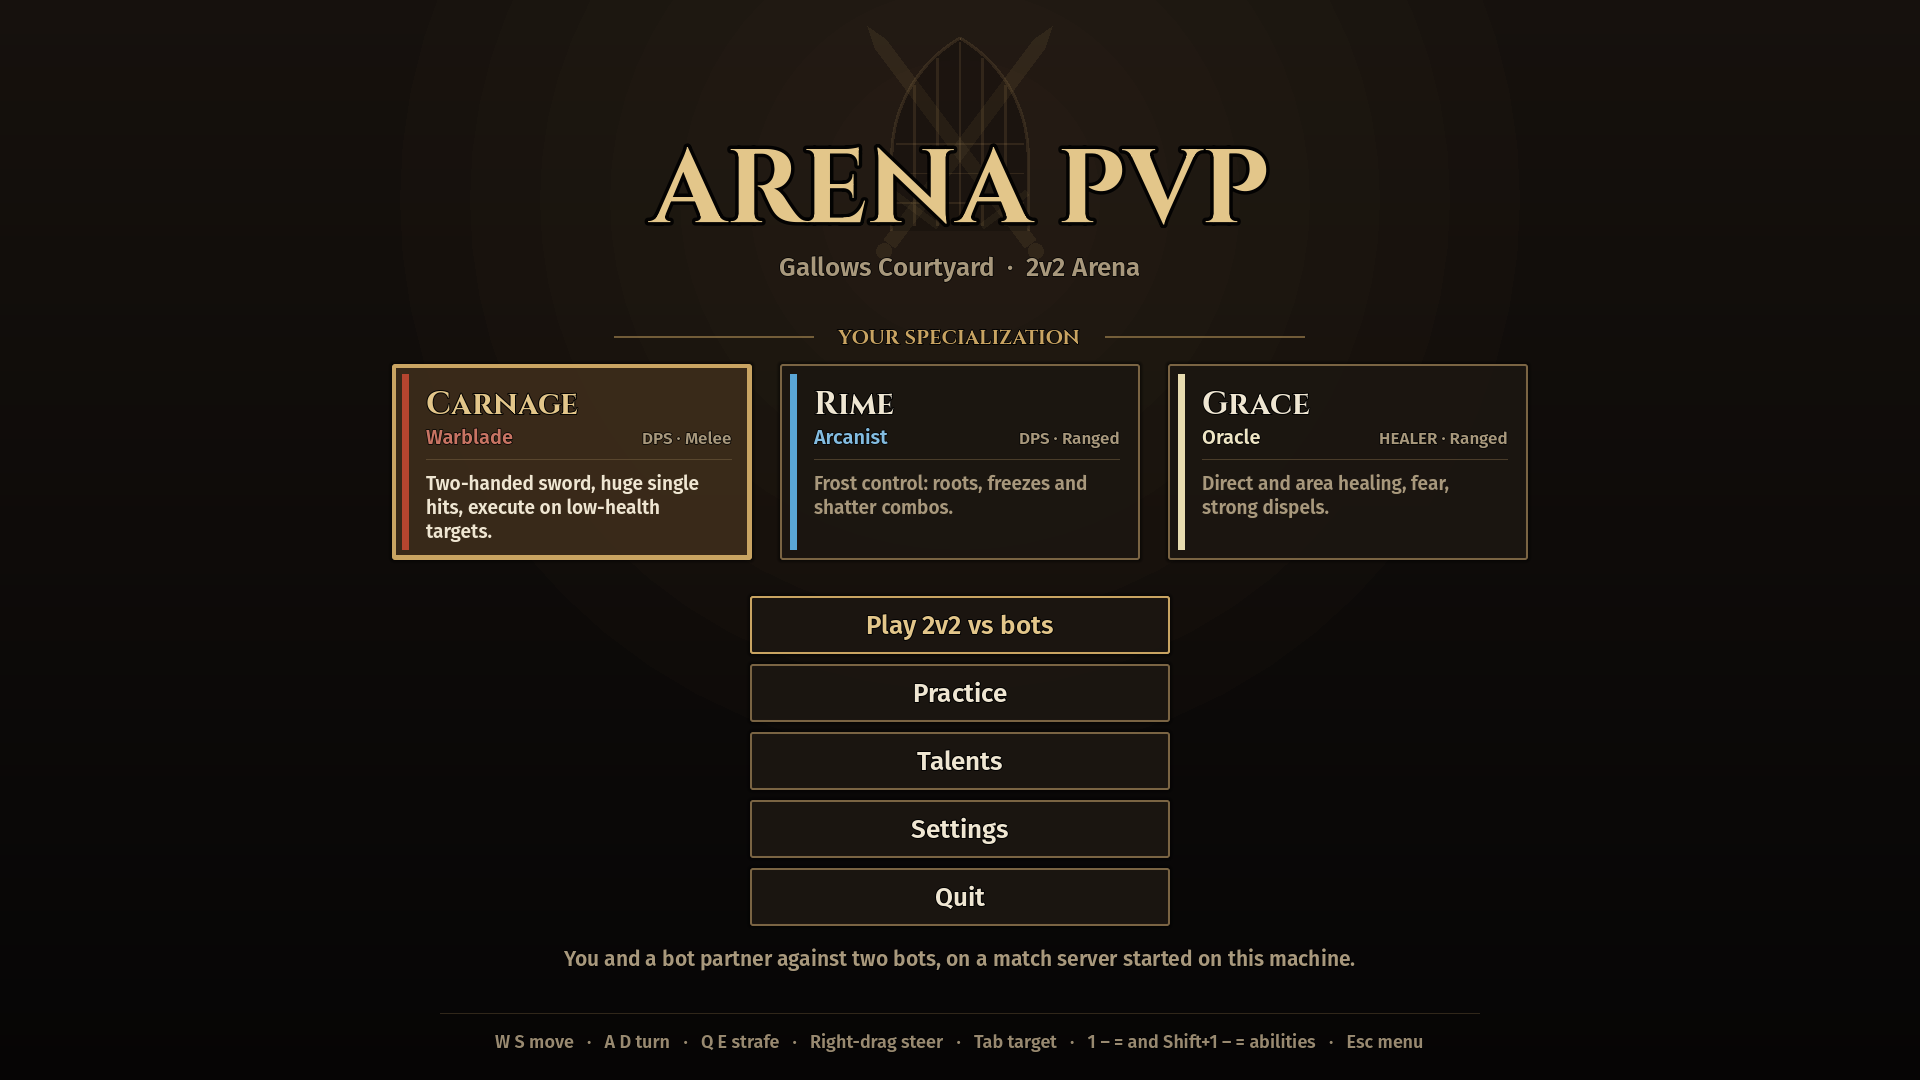
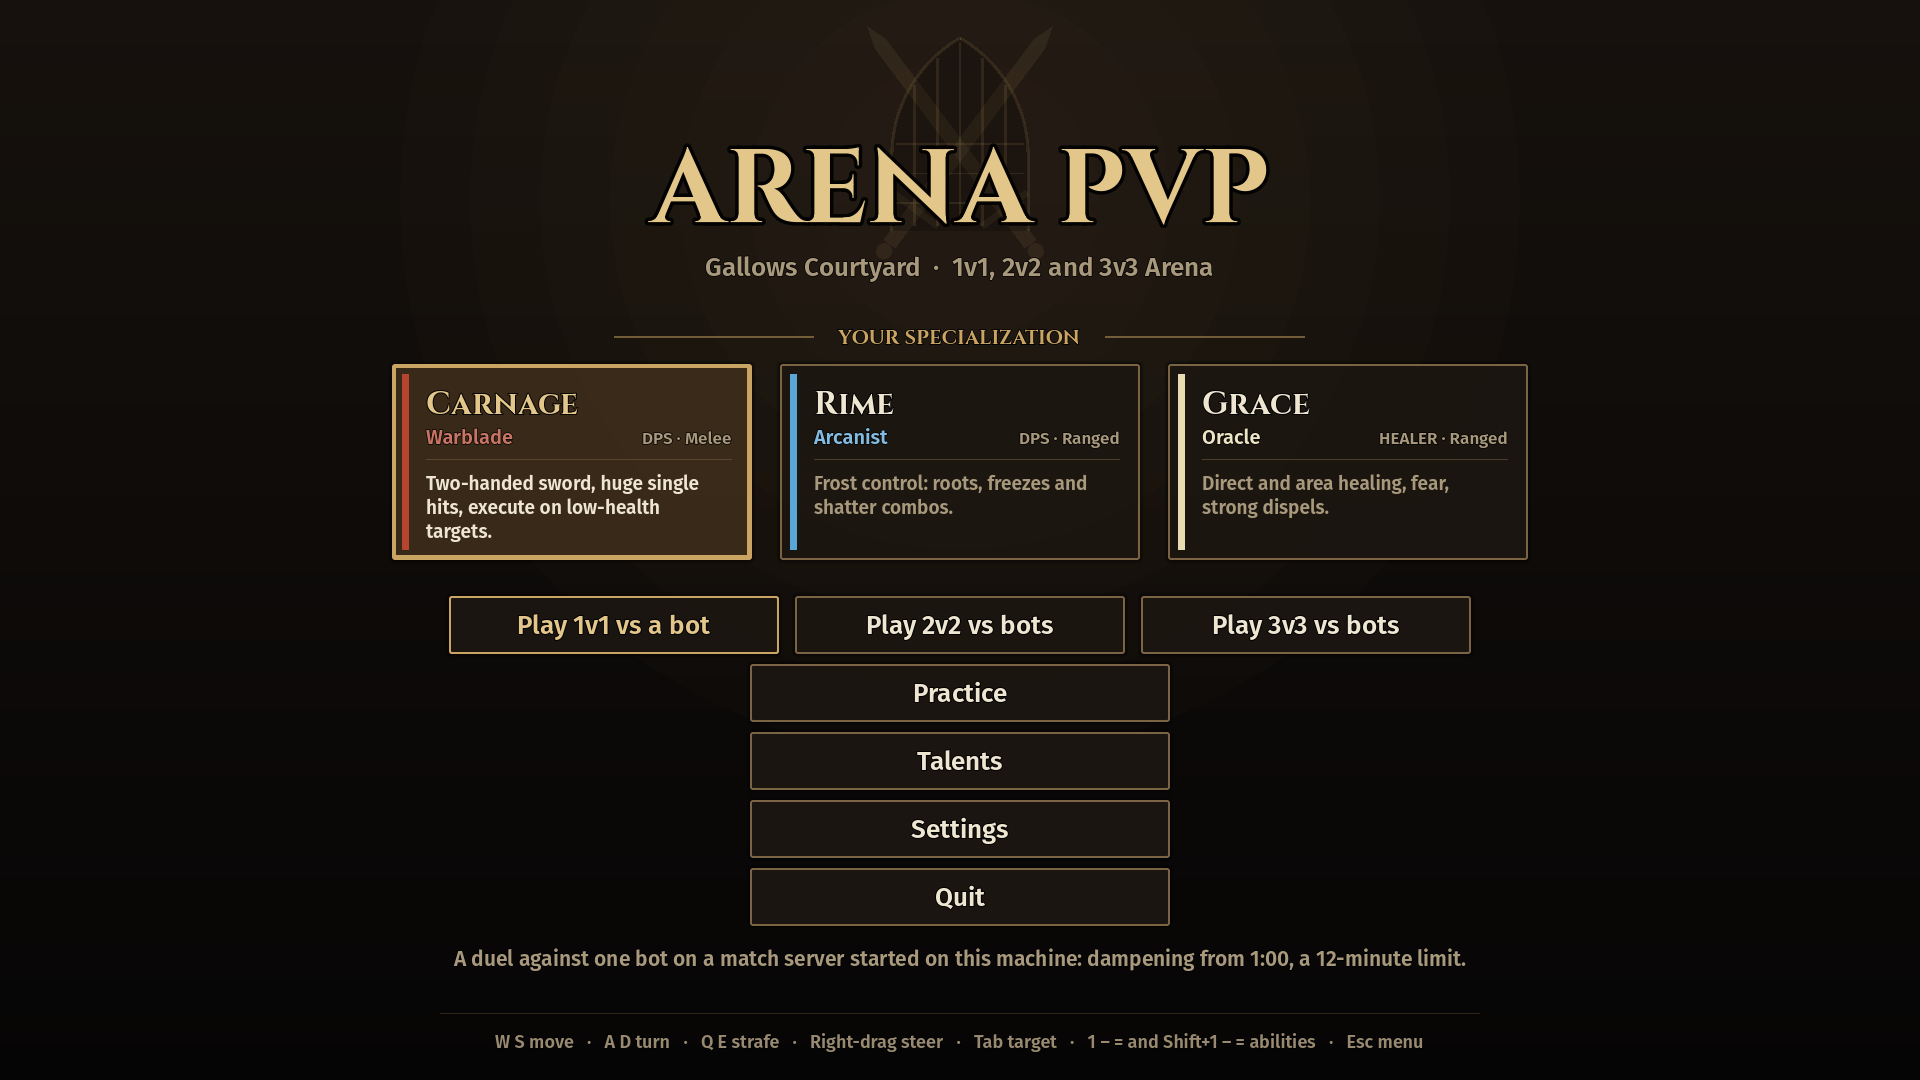
M2-08: 3v3 bracket through the whole flow; Play buttons share a row
Play 3v3 vs bots (two bot partners, three bots against); the three Play buttons sit in one row
(menu data 'row'). A real 3v3 ran end to end; the HUD shows three arena and two party frames.

Claude-Session: https://claude.ai/code/session_011LqwkqQDgdxsrYqZ4Kxj9L

diff --git a/tools/validate_data.py b/tools/validate_data.py
@@ -565,7 +565,7 @@ def _check_menus(report: Report, db: dict) -> None:
         picker = m["spec_picker"]
         if picker["default"] not in picker["specs"]:
             report.error(rel, f"spec_picker.default '{picker['default']}' is not in spec_picker.specs")
-        presets = {k: m[k] for k in ("play_bots", "play_1v1") if k in m}
+        presets = {k: m[k] for k in ("play_bots", "play_1v1", "play_3v3") if k in m}
         for key, pb in presets.items():
             if pb["map"] not in db["maps"]:
                 report.error(rel, f"{key}.map '{pb['map']}' not found in maps")

diff --git a/DECISIONS.md b/DECISIONS.md
@@ -4,6 +4,7 @@ Every choice not specified in docs/DESIGN.md, newest first. One line of reasonin
 
 | Date | Decision | Reason | Approved by |
 | --- | --- | --- | --- |
+| 2026-10-01 | The three Play buttons (1v1, 2v2, 3v3) share one row in the main menu (`row` in the menu data); Play 2v2 keeps the default focus; 3v3 bots are one of each slice spec on both sides | Seven stacked buttons would not fit above the hint line; with three specs, one of each is the only 3v3 without a mirror on the same team | Model |
 | 2026-10-01 | Regeneration pickups: two spots per map (Gallows Courtyard: 13 m north and south of the gallows, equally far from both gates), lit once 90 s after the gates open in 1v1 and 2v2; the nearest living player within 1.6 m takes one (lowest id on a tie); it gives Renewal (1,500 health a second for 10 s, dampened like any healing) and Clarity (2,000 mana a second for 10 s), neither dispellable; drawn as a pale green wisp (an ambient effect, data only) | DESIGN.md says pickups spawn once at 1:30 in 1v1 and 2v2 and leaves the rest open; a quarter of health over 10 s rewards reaching the spot without deciding the match | Model |
 | 2026-10-01 | 1v1 is played on Gallows Courtyard until a small arena exists (DESIGN.md wants two small 1v1 arenas; M2-09 and M2-10 can be one of them); the menu's Play presets list bot allies (`allies`, 0 to 2) instead of one partner, ready for 3v3 | The duel needed a map now, and 3v3 needs two partners | Model |
 | 2026-10-01 | Tooltips and the spellbook compute their facts and effect numbers from data in game (`AbilityText`, a twin of the codex generator) using the player's talented copies; the hand-written description stays, with each number that matches an untalented computed number replaced by this build's; a test checks every description (talent abilities included) against the data | M2-06 asks for no hand-written numbers that can drift; templating 59 descriptions was not needed once numbers can be matched by position | Model |

diff --git a/BACKLOG.md b/BACKLOG.md
@@ -489,8 +489,9 @@ Exit gate (DESIGN.md): every combat rule has passing tests; every action is rebi
 - [ ] Rules: dampening from 1:00, 12-minute limit, health and mana pickups at 1:30; menu entry "Play 1v1 vs a bot"; balance per F-08 (each spec 40-60% in 1,000 simulated duels).
 - Done 2026-10-01: the rules (dampening from 1:00, the 12-minute limit, pickups at 1:30 in 1v1 and 2v2), the menu entry, bots that take pickups. Left: the 1,000-duel balance run per F-08, after the reference video frees the CPU.
 
-### M2-08 3v3 bracket `[todo]`
+### M2-08 3v3 bracket `[doing]`
 - [ ] Three-player teams through the whole flow (menu, prep, scoreboard), arena enemy frames 1 to 3; balance per F-08 (two-healer teams no longer dominate).
+- Done 2026-10-01: three-player teams through the whole flow (menu, preparation, scoreboard), three arena frames. Left: the balance run per F-08 (two-healer teams), after the reference video frees the CPU.
 
 ### M2-09 Second arena `[todo]`
 - [ ] About 40 m across, 3 to 5 line-of-sight blockers, two starting rooms, one twist (for example a collapsing bridge); kit pieces by Blender script; navigation and bots work; screenshots against the art bible.

diff --git a/CHANGELOG.md b/CHANGELOG.md
@@ -2,6 +2,10 @@
 
 One entry per build-loop iteration, newest first. Format: date, backlog ID, what changed, how it was checked.
 
+## 2026-10-01 — M2-08 3v3 bracket (flow and HUD; balance runs next)
+- "Play 3v3 vs bots" in the main menu: you and two bot partners against three bots. The three Play buttons now share one row.
+- Checked: a real 3v3 ran end to end with no errors or warnings (six players joined, then preparation, fight, end screen, scoreboard, menu); a HUD test shows three arena frames and two party frames; the menu tests pass.
+
 ## 2026-10-01 — M2-07 1v1 bracket (rules, pickups, menu; balance runs next)
 - "Play 1v1 vs a bot" in the main menu: a duel on a local match server against one bot. Dampening starts at 1:00, and a 1v1 is a draw at 12:00 (now tested).
 - Regeneration pickups, as DESIGN.md asks for 1v1 and 2v2:
